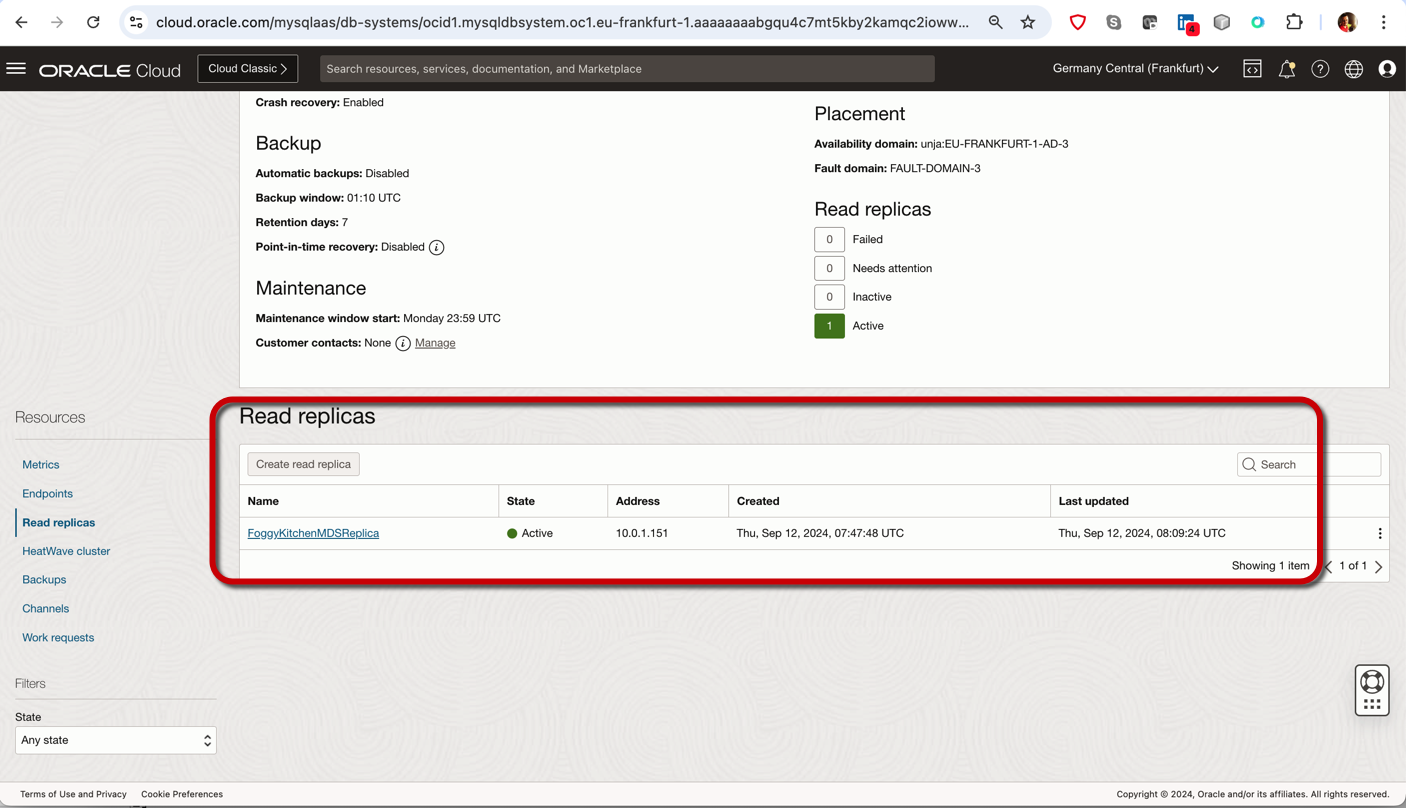
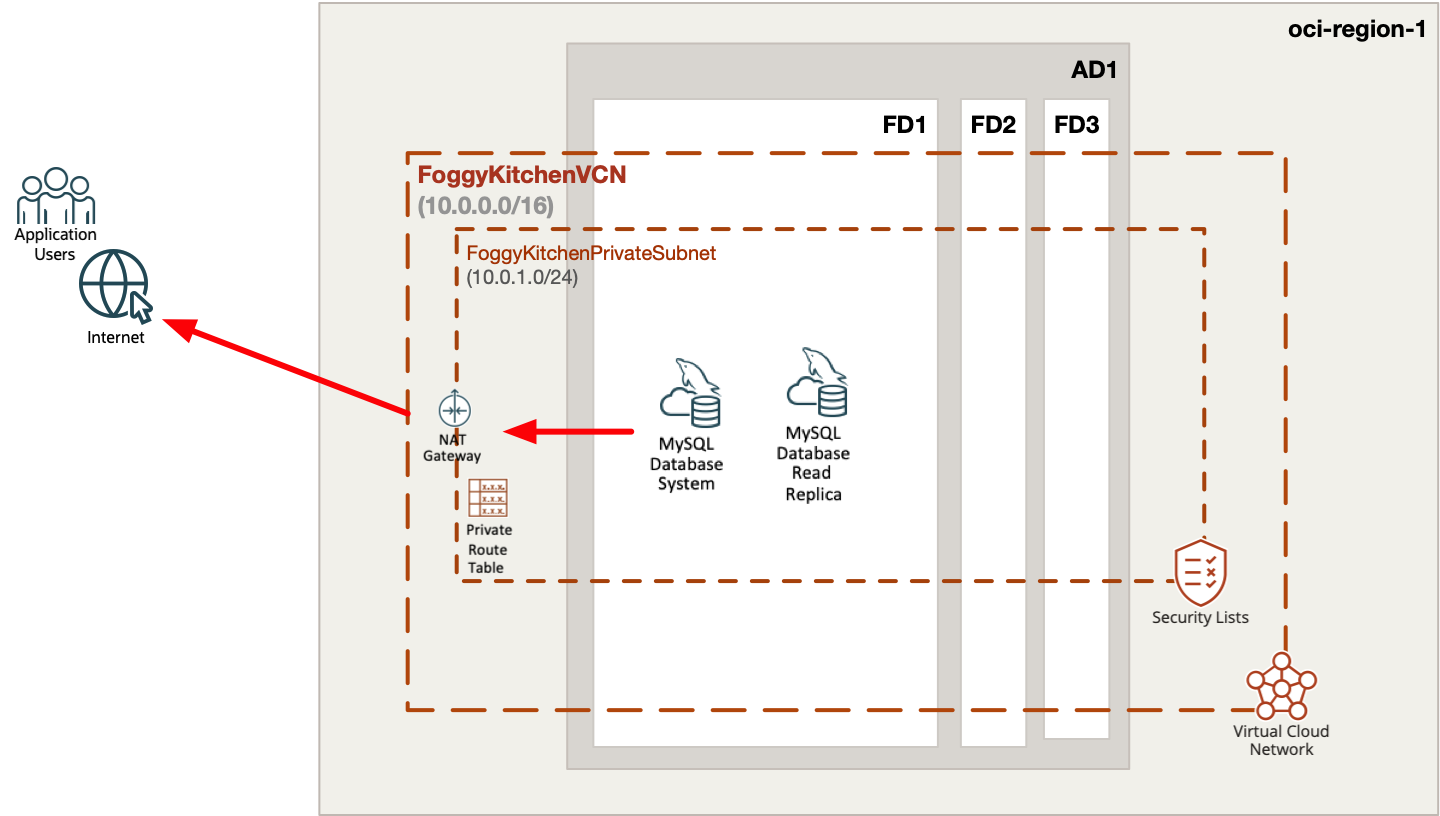
Updated README and images of lesson8

diff --git a/training/lesson8_mds_with_replicas/README.md b/training/lesson8_mds_with_replicas/README.md
@@ -5,7 +5,7 @@
 
 In this lesson, we'll delve into the creation of a **MySQL Database Service** in Oracle Cloud Infrastructure with **Replicas** using a **Terraform module**, focusing on setting up read replicas to offload read-heavy workloads, improve performance, and enhance data availability and redundancy across different instances.
 
-![](images/lesson8_mds_with_replicas2.png)
+![](images/lesson8_mds_with_replicas.png)
 
 ## Deploy Using Oracle Resource Manager
 
@@ -489,7 +489,7 @@ mds_database = {
 
 1. Verify MDS replica:
 
-![](images/lesson8_mds_with_replicas.png)
+![](images/lesson8_mds_with_replicas1.png)
 
 2. Check the details of the MDS replica:
 
